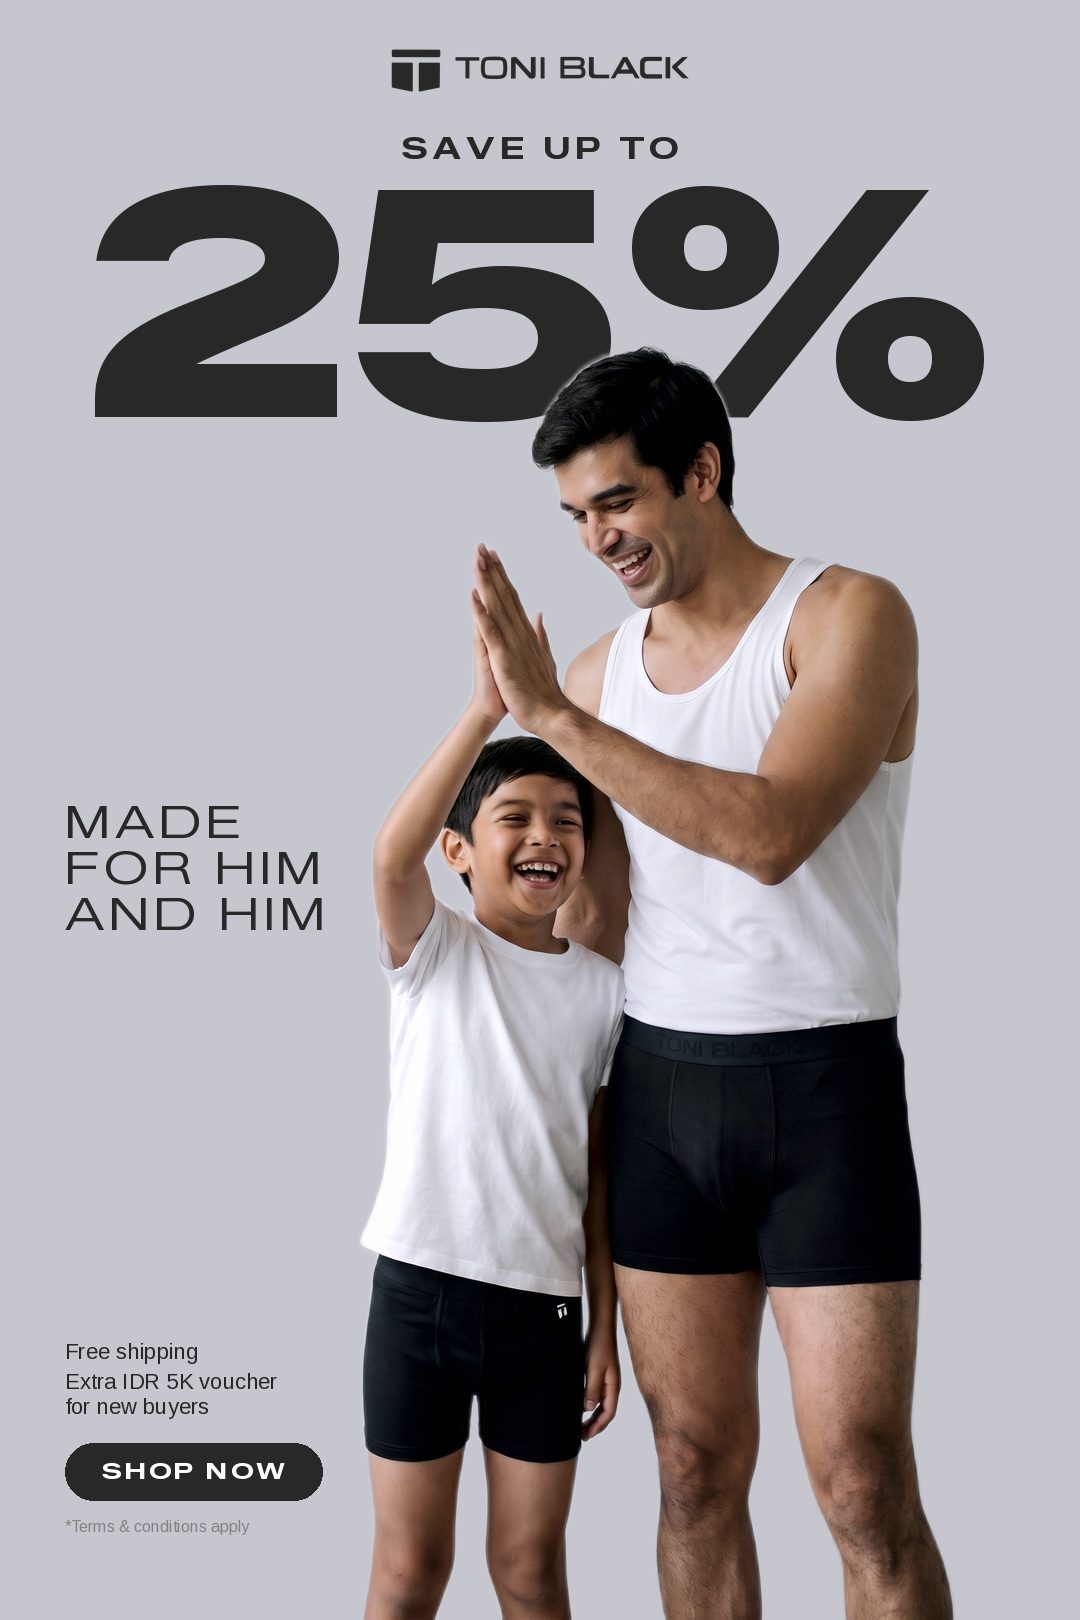
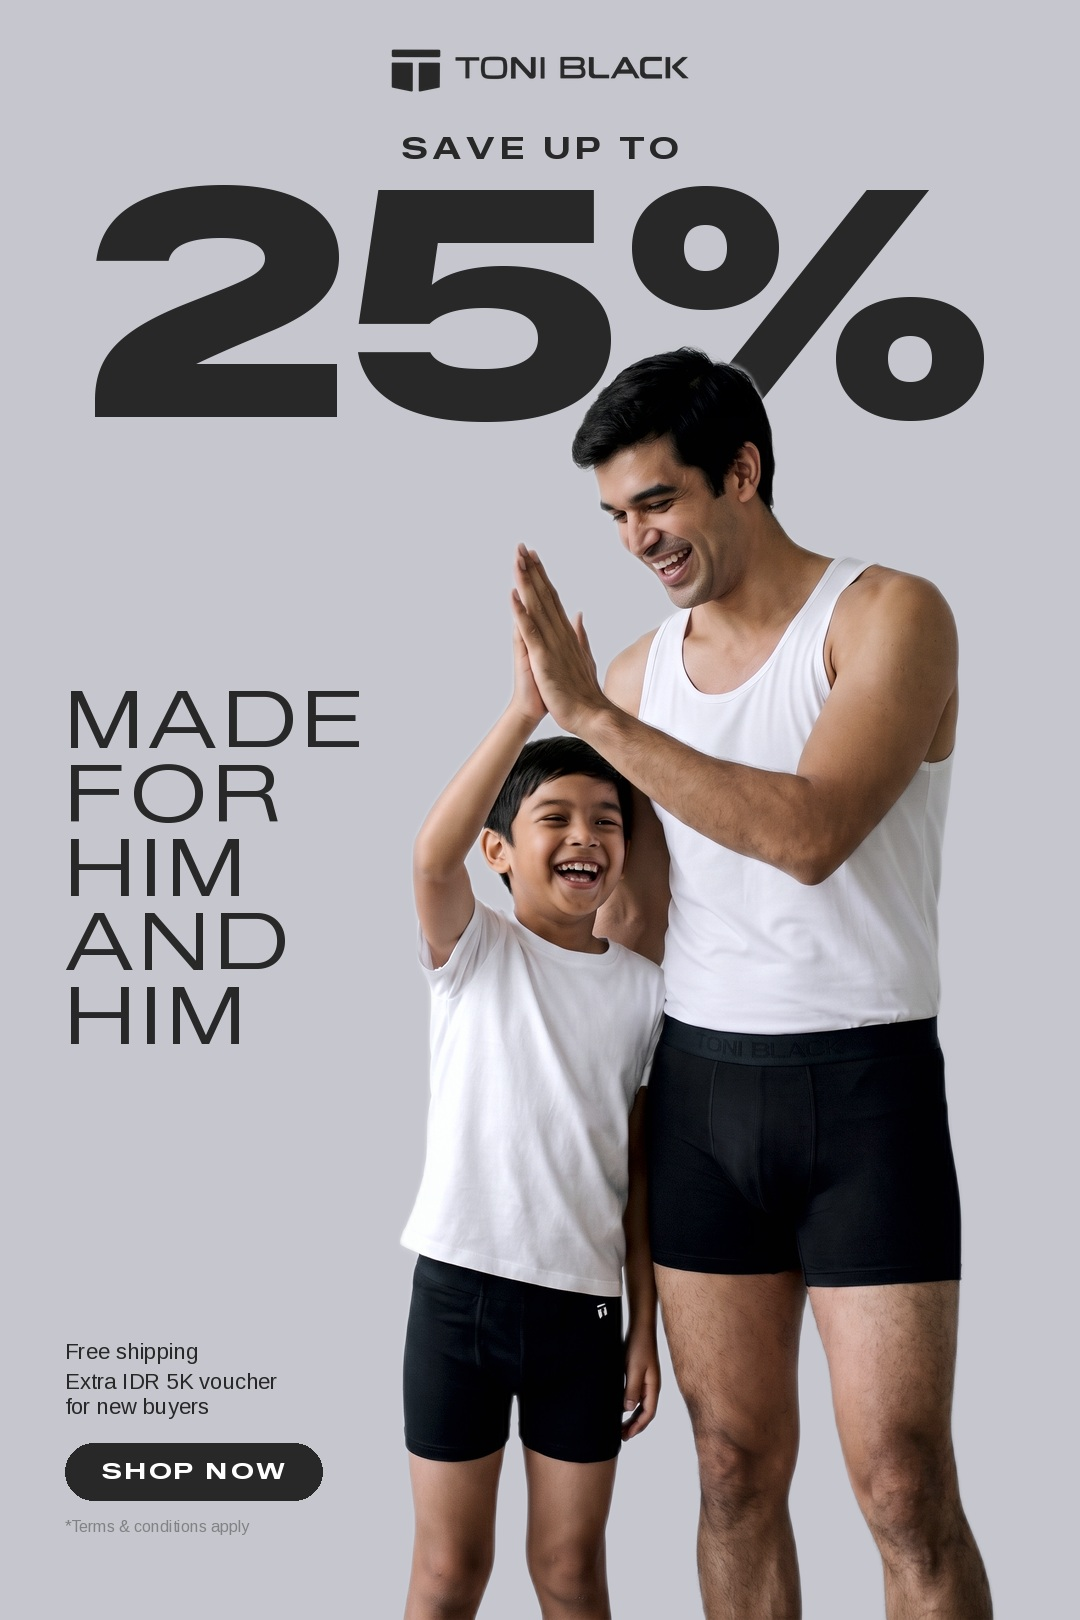
Him and Him v6c: headline as a 79 px vertical word stack in the left column
Claude-Session: https://claude.ai/code/session_01D9RBu3wL2qzNxzBzcGFuRs

Changed region(s): [[0.3361, 0.216, 0.9472, 1.0], [0.0611, 0.4012, 0.3361, 0.6481], [0.6722, 0.7099, 0.7028, 0.7407]]

diff --git a/banner-him-and-him-toni-black/scripts/compose_himhim7.py b/banner-him-and-him-toni-black/scripts/compose_himhim7.py
@@ -10,7 +10,7 @@ from compose_himhim3 import offer
 from compose_himhim5 import graded
 from compose_himhim6 import centred
 C282=(40,40,40)
-def build(out,W=1080,H=1620,M=65,fig_scale=0.95,num_frac=0.85,kick=30,pair_left=360,clear=34):
+def build(out,W=1080,H=1620,M=65,fig_scale=0.95,num_frac=0.85,kick=30,pair_left=400,clear=34):
     src=graded("gen/himhim_e_0.png"); alpha=Image.open("gen/himhim_e_cutout.png").split()[3]
     s=max(W/src.width,H/src.height)*fig_scale; fw,fh=int(src.width*s+0.5),int(src.height*s+0.5)
     fig=src.resize((fw,fh),Image.LANCZOS); fig.putalpha(alpha.resize((fw,fh),Image.LANCZOS))
@@ -24,13 +24,13 @@ def build(out,W=1080,H=1620,M=65,fig_scale=0.95,num_frac=0.85,kick=30,pair_left=
     fx=int(pair_left-bx0); cv.paste(fig,(fx,fy),fig); d=ImageDraw.Draw(cv)
     strip=pair_left-clear-M
     # left column: headline (two lines) centred vertically in the column's upper half, offer block at the bottom
-    lines=("MADE","FOR HIM","AND HIM"); z=min(fit(d,t,"ZalandoSansExpanded-Regular.ttf",strip,0.10) for t in lines); fh_=font("ZalandoSansExpanded-Regular.ttf",z); c=cb(d,"H",fh_); ch=c[3]-c[1]
+    lines=("MADE","FOR","HIM","AND","HIM"); z=min(fit(d,t,"ZalandoSansExpanded-Regular.ttf",strip,0.08) for t in lines); fh_=font("ZalandoSansExpanded-Regular.ttf",z); c=cb(d,"H",fh_); ch=c[3]-c[1]
     ben=22
     while ben>16 and tw(d,"Extra IDR 5K voucher",font("Arimo-Regular.ttf",ben))>strip: ben-=1
     probe=ImageDraw.Draw(Image.new("RGB",(W,H))); top_probe,_=offer(probe,M,H-M-20,ben,int(ben*2.6),ben+1); bh=(H-M-20)-top_probe
     free_top=num_bot+60; free_bot=H-M-20-bh-80
-    hy=int((free_top+free_bot)/2-(len(lines)*ch+(len(lines)-1)*int(ch*0.45))/2)
-    for t in lines: tracked(d,(M-cb(d,t,fh_)[0],hy-c[1]),t,fh_,C282,z*0.10); hy+=int(ch*1.45)
+    hy=int((free_top+free_bot)/2-(len(lines)*ch+(len(lines)-1)*int(ch*0.30))/2)
+    for t in lines: tracked(d,(M-cb(d,t,fh_)[0],hy-c[1]),t,fh_,C282,z*0.08); hy+=int(ch*1.30)
     ob,orx=offer(d,M,H-M-20,ben,int(ben*2.6),ben+1)
     sub=np.zeros((H,W),bool); sub[max(fy,0):H,max(fx,0):min(fx+fw,W)]=al0[max(0,-fy):H-fy,max(0,-fx):W-fx]
     rows=np.where(sub[num_top:num_bot].any(1))[0]; covered=(num_bot-(num_top+rows.min())) if len(rows) else 0

diff --git a/banner-him-and-him-toni-black/README.md b/banner-him-and-him-toni-black/README.md
@@ -28,4 +28,4 @@ Father's boxer replaced by one edit pass (`prompts/prompt_himhim5.txt`) with the
 Top stack opened: logo to headline 44 px, headline to `SAVE UP TO` 48, kicker to `25%` 26; the heads now cover 33 px of the number (14%, within the quarter allowed). The pair moved left to x 345 to 882 (right margin 18%), leaving a 246 px strip on the left; the offer block (Arimo 22, pill 57) sits vertically centred in that strip, 34 px clear of the boy, so the left column no longer reads as a void. `build(..., pair_left=345)`.
 
 ## v6 (current 2:3 final, `scripts/compose_himhim7.py`)
-Brief: no large empty areas. With a knee crop and both products in frame, the pair cannot be wider than about 55% of the canvas, so the voids are removed by using the left column instead of leaving it: figures at 95% of the full-bleed scale (head top at 346), `25%` at 85% W behind the heads (cover 32%, the "2" and "%" fully clear), logo and `SAVE UP TO` centred on top, the headline set in three lines mid-left in the column, `MADE / FOR HIM / AND HIM` (Regular 46, tracked 0.10 em, fitted to the 261 px column), the offer block at the bottom of the same column. Right margin 12%.
+Brief: no large empty areas. With a knee crop and both products in frame, the pair cannot be wider than about 55% of the canvas, so the voids are removed by using the left column instead of leaving it: figures at 95% of the full-bleed scale (head top at 346), `25%` at 85% W behind the heads (cover 32%, the "2" and "%" fully clear), logo and `SAVE UP TO` centred on top, the headline set as a five-word vertical stack mid-left in the column, `MADE / FOR / HIM / AND / HIM` (Regular 79, tracked 0.08 em, leading 1.30, fitted to the 301 px column; pair moved to x 400 to 993, right margin 8%), the offer block at the bottom of the same column. Right margin 12%.
